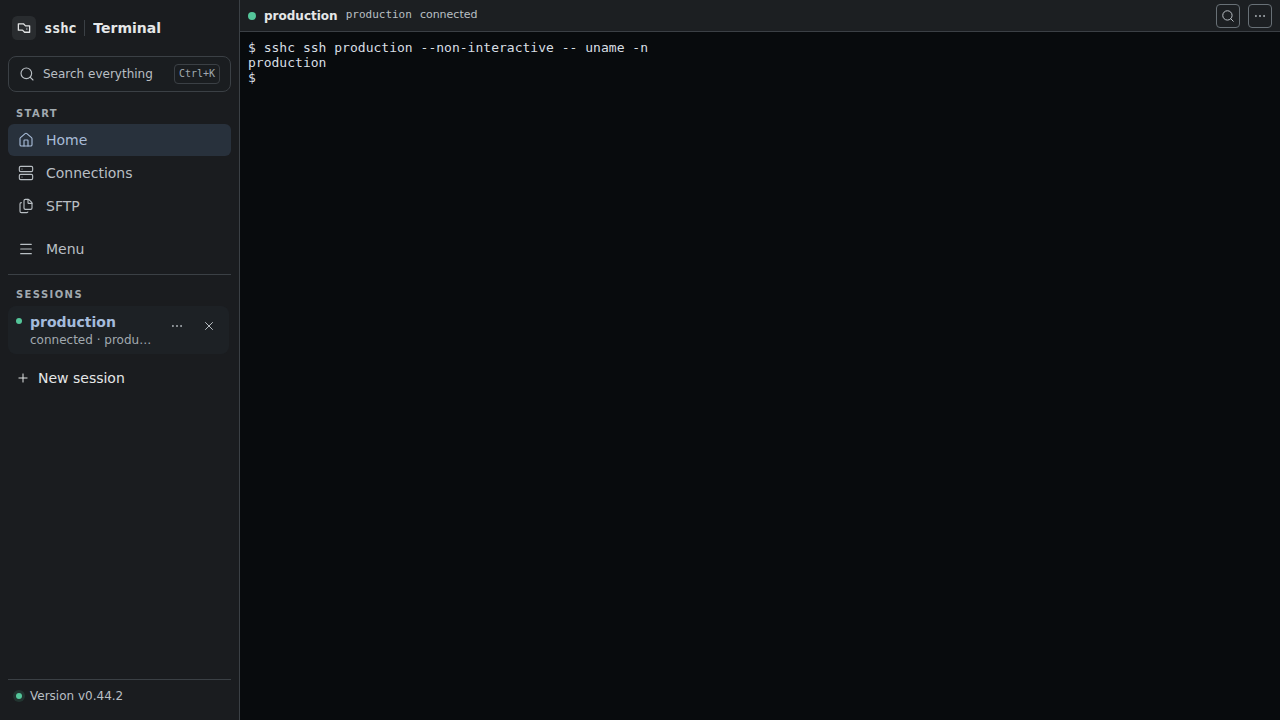
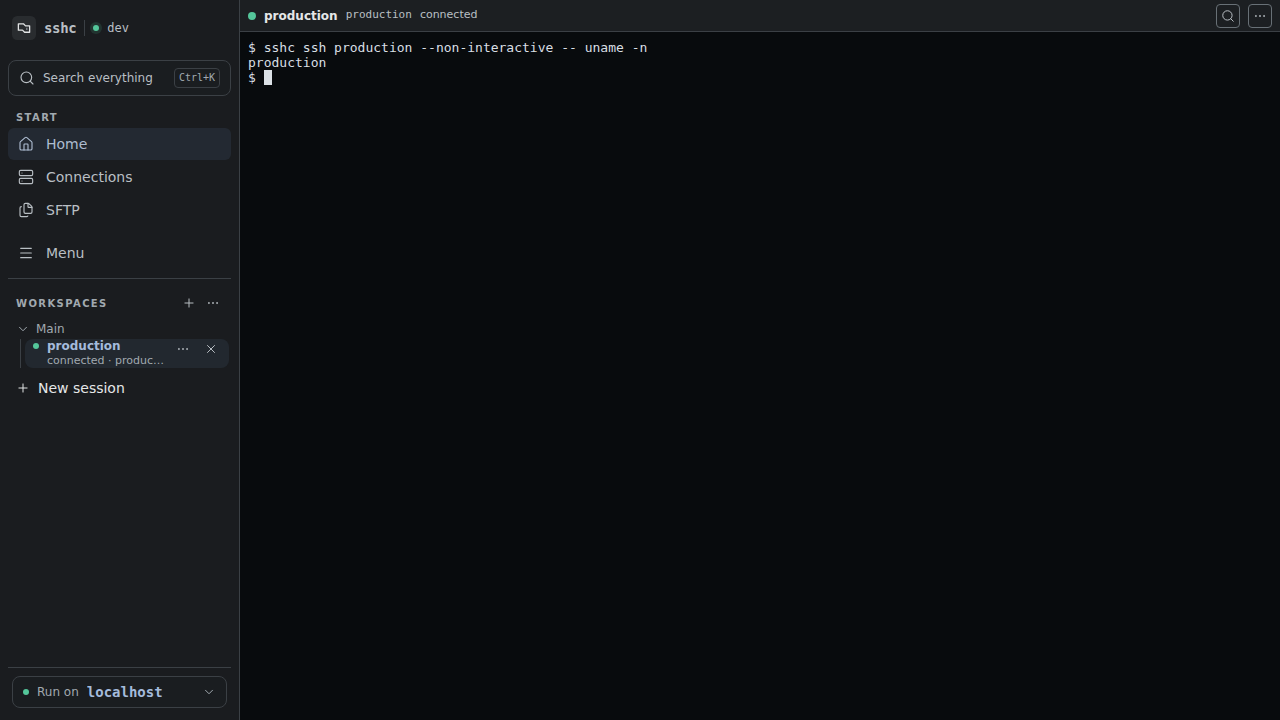
docs: 実装に合わせて説明とサイト画像を更新

diff --git a/web/e2e/sftp-transfer.spec.ts b/web/e2e/sftp-transfer.spec.ts
@@ -280,15 +280,22 @@ test("keeps a chunked SFTP upload visible while another section is open", async 
     await page.getByRole("button", { name: "project", exact: true }).click();
     await openSecondSFTPPane(page, "New tab", "Local");
     await page.setViewportSize({ width: 360, height: 800 });
-    await page.getByRole("navigation", { name: "SFTP pane switcher" }).getByRole("button", { name: "Left: bastion", exact: true }).click();
-    await page.waitForTimeout(400);
-    await expect(page.getByRole("tablist", { name: "Left pane tabs" })).toBeVisible();
-    await expect(page.getByRole("tablist", { name: "Right pane tabs" })).toHaveCount(0);
+    const mobileTabs = page.getByRole("tablist", { name: "File tabs" });
+    await expect(mobileTabs.getByRole("tab", { name: /^Local:/ })).toBeVisible();
+    await mobileTabs.getByRole("tab", { name: /^bastion:/ }).first().click();
+    await expect(page.getByRole("tablist")).toHaveCount(1);
     await expect(page.locator('[aria-label="First remote pane"]')).toBeVisible();
     await expect(page.locator('[aria-label="Second remote pane"]')).toBeHidden();
     await expect(page.getByRole("separator", { name: "Resize the panes" })).toHaveCount(0);
-    await expect(page.getByRole("button", { name: "Compare directories", exact: true })).toHaveCount(0);
+    await page.getByRole("button", { name: "Compare directories", exact: true }).click();
+    const compareTabs = page.getByRole("dialog", { name: "Choose tabs to compare" });
+    await expect(compareTabs.getByRole("combobox")).toHaveCount(2);
+    await compareTabs.getByRole("button", { name: "Compare", exact: true }).click();
+    const mobileComparison = page.getByRole("dialog", { name: "Compare directories" });
+    await expect(mobileComparison.getByText("Left only", { exact: true })).toBeVisible();
+    await mobileComparison.getByRole("button", { name: "Cancel" }).click();
     await expect(page.getByRole("list", { name: "File list" })).toBeVisible();
+    await page.getByRole("checkbox", { name: "Select project", exact: true }).check();
     await page.getByRole("button", { name: "Actions for project" }).click();
     await expect(page.getByRole("menuitem", { name: "Download" })).toBeInViewport();
     await page.keyboard.press("Escape");
@@ -306,6 +313,7 @@ test("keeps a chunked SFTP upload visible while another section is open", async 
     await expect(mobileTransferManager).toBeVisible();
     await expect(mobileTransferManager.getByRole("separator")).toHaveCount(0);
     await expect(mobileTransferManager.getByText("失敗", { exact: true })).toBeVisible();
+    await mobileTransferManager.getByRole("button", { name: "broken.binの詳細を表示" }).click();
     await expect(mobileTransferManager.getByText("SFTPの操作に失敗しました。", { exact: true })).toBeVisible();
     await mobileTransferManager.getByRole("button", { name: "転送キューの操作" }).click();
     await expect(page.getByRole("menuitem", { name: "すべてキャンセル" })).toBeInViewport();

diff --git a/web/e2e/workspaces.spec.ts b/web/e2e/workspaces.spec.ts
@@ -1,4 +1,5 @@
 import { expect, test, openApplication } from "./support/environment";
+import { drawnRows, terminalKeyboard } from "./support/terminal";
 
 test("reveals workspace counts together with actions on hover and keyboard focus", async ({ page, installation }) => {
   await openApplication(page, installation);
@@ -60,6 +61,23 @@ test("groups sessions into workspaces and keeps a hidden one out of the tree", a
   await expect(dialog).toBeHidden();
   await expect(page.getByRole("region", { name: /^Terminal for / })).toBeVisible();
   await expect(workspace).toContainText("1");
+
+  if (process.env.SSHC_VISUAL_DIR !== undefined) {
+    // Capture the current workspace tree and run-target control before hiding the session.
+    const terminal = page.getByRole("region", { name: /^Terminal for / });
+    await expect(terminal).toContainText(/[$#%>]/);
+    // Keep the capture independent of the machine's user name and hostname.
+    await terminalKeyboard(page).focus();
+    await page.keyboard.type("export PS1='sshc@localhost:~$ '; printf '\\033[2J\\033[H'");
+    await page.keyboard.press("Enter");
+    await expect(drawnRows(page)).toHaveText("sshc@localhost:~$");
+    await page.mouse.move(0, 0);
+    await page.screenshot({ path: `${process.env.SSHC_VISUAL_DIR}/terminal-desktop.png`, animations: "disabled" });
+    await navigation.getByRole("button", { name: /^Choose where terminals run/ }).click();
+    await expect(navigation.getByRole("list", { name: "Engines" })).toBeVisible();
+    await page.screenshot({ path: `${process.env.SSHC_VISUAL_DIR}/run-target-desktop.png`, animations: "disabled" });
+    await page.keyboard.press("Escape");
+  }
 
   const session = tree.getByRole("button", { name: /^Actions for / });
   await session.click();

diff --git a/web/e2e/support/environment.ts b/web/e2e/support/environment.ts
@@ -176,8 +176,8 @@ export const shellSays = {
 
 export const test = base.extend<{ installation: Installation }>({
   page: async ({ page }, use) => {
-    // Documentation captures show the published release, not this development build and the
-    // update notice it would get. A test that stubs the update status itself registers later and wins.
+    // Keep documentation captures independent of release checks. The capture script supplies
+    // an exact release tag or dev; a test-specific update stub registers later and wins.
     const visualVersion = process.env.SSHC_VISUAL_VERSION;
     if (visualVersion !== undefined) {
       await page.route("**/api/v1/update", (route) => route.fulfill({

diff --git a/pages/index.md b/pages/index.md
@@ -19,7 +19,7 @@ outline: false
       </div>
     </div>
     <div class="sshc-preview">
-      <img src="/images/terminal-desktop.png" alt="sshcでSSH接続を開いたTerminal画面" width="1280" height="720">
+      <img src="/images/terminal-desktop.png" alt="ワークスペース内でローカルシェルを開いたTerminal画面" width="1280" height="720">
     </div>
   </section>
 
@@ -29,7 +29,7 @@ outline: false
       <p>SSHとローカルシェルを同じ画面で開けます。SFTPやポート転送にも同じ接続設定を使い、OpenSSH形式のまま管理できます。選んだ接続だけを<a href="./features/vpn">専用のVPN</a>経由で接続することもできます。</p>
     </div>
     <div class="sshc-feature-grid">
-      <article class="sshc-feature"><img class="sshc-feature-image" src="/images/terminal-desktop.png" alt="SSH接続を開いたTerminal" width="1280" height="720"><div class="sshc-feature-body"><span class="index">01</span><h3>SSHとローカルシェル</h3><p>セッションの一覧から切り替えて使えます。再接続、検索、ポート転送にも対応しています。</p></div></article>
+      <article class="sshc-feature"><img class="sshc-feature-image" src="/images/terminal-desktop.png" alt="ワークスペース内でローカルシェルを開いたTerminal" width="1280" height="720"><div class="sshc-feature-body"><span class="index">01</span><h3>SSHとローカルシェル</h3><p>セッションの一覧から切り替えて使えます。再接続、検索、ポート転送にも対応しています。</p></div></article>
       <article class="sshc-feature"><img class="sshc-feature-image" src="/images/connections-desktop.png" alt="OpenSSH接続を整理するConnections画面" width="1280" height="720"><div class="sshc-feature-body"><span class="index">02</span><h3>OpenSSH設定をそのまま使う</h3><p><code>~/.ssh/config</code>の<code>Include</code>や<code>Match</code>をそのまま扱っています。通常の<code>ssh</code>やVS Codeでも、同じエイリアスを使えます。</p></div></article>
       <article class="sshc-feature"><img class="sshc-feature-image" src="/images/credentials-desktop.png" alt="保存済みパスワードを複数ホストへ割り当てたVault画面" width="1280" height="720"><div class="sshc-feature-body"><span class="index">03</span><h3>認証情報は一度保存</h3><p>パスワードや鍵のパスフレーズはVaultに一度保存すれば、Terminal、SFTP、CLIでそのまま使えます。機能ごとに設定し直す必要はありません。</p></div></article>
       <article class="sshc-feature"><img class="sshc-feature-image" src="/images/otp-desktop-ja.png" alt="現在のコードと割り当て先を表示したOTP画面" width="1280" height="720"><div class="sshc-feature-body"><span class="index">04</span><h3>ワンタイムパスワード</h3><p>TOTPのセットアップキーをVaultに保存すると、現在のコードを確認できます。接続先に割り当てておけば、サーバーが求めたときにコードを自動で入力します。</p></div></article>

diff --git a/pages/en/index.md b/pages/en/index.md
@@ -19,7 +19,7 @@ outline: false
       </div>
     </div>
     <div class="sshc-preview">
-      <img src="/images/terminal-desktop.png" alt="An SSH connection open in the sshc terminal" width="1280" height="720">
+      <img src="/images/terminal-desktop.png" alt="A local shell open in a named workspace" width="1280" height="720">
     </div>
   </section>
 
@@ -29,7 +29,7 @@ outline: false
       <p>Open SSH sessions and local shells side by side in one list, then use SFTP and port forwarding with the same connections. Connection settings remain in OpenSSH format. Chosen connections can also go through <a href="./features/vpn">a VPN of their own</a>.</p>
     </div>
     <div class="sshc-feature-grid">
-      <article class="sshc-feature"><img class="sshc-feature-image" src="/images/terminal-desktop.png" alt="An SSH connection open in the terminal" width="1280" height="720"><div class="sshc-feature-body"><span class="index">01</span><h3>SSH and local shells</h3><p>Switch between sessions from the list. Reconnect, search, and forward ports.</p></div></article>
+      <article class="sshc-feature"><img class="sshc-feature-image" src="/images/terminal-desktop.png" alt="A local shell open in a named workspace" width="1280" height="720"><div class="sshc-feature-body"><span class="index">01</span><h3>SSH and local shells</h3><p>Switch between sessions from the list. Reconnect, search, and forward ports.</p></div></article>
       <article class="sshc-feature"><img class="sshc-feature-image" src="/images/connections-desktop.png" alt="Connections screen for organizing OpenSSH hosts" width="1280" height="720"><div class="sshc-feature-body"><span class="index">02</span><h3>Use OpenSSH configuration directly</h3><p>Keep <code>~/.ssh/config</code>, Include, and Match intact, so regular ssh and VS Code use the same aliases.</p></div></article>
       <article class="sshc-feature"><img class="sshc-feature-image" src="/images/credentials-desktop.png" alt="Vault screen assigning a saved password to multiple hosts" width="1280" height="720"><div class="sshc-feature-body"><span class="index">03</span><h3>Reuse saved credentials</h3><p>Register passwords and key passphrases in the vault once, then use them from the terminal, SFTP, and CLI without configuring each feature separately.</p></div></article>
       <article class="sshc-feature"><img class="sshc-feature-image" src="/images/otp-desktop-en.png" alt="OTP screen showing current codes and assigned hosts" width="1280" height="720"><div class="sshc-feature-body"><span class="index">04</span><h3>One-time passwords</h3><p>Store TOTP setup keys in the vault to see the current codes. Assign one to a connection, and sshc enters the code when the server asks for it.</p></div></article>

diff --git a/pages/guide/getting-started.md b/pages/guide/getting-started.md
@@ -5,9 +5,9 @@ description: SSHとローカルシェルを扱うターミナルアプリ。Open
 
 # sshcとは
 
-sshcは、SSHとローカルシェルを扱うターミナルアプリです。デスクトップ版は、ブラウザで操作するWeb UIと、SSH接続を処理するバックグラウンドプロセス（sshcエンジン）で構成されています。今あるOpenSSH設定を使って複数のペインで接続を開き、SFTPやポート転送にも同じ接続設定を使えます。`~/.ssh/config`、`Include`、秘密鍵、`known_hosts`は独自形式へ変換しません。
+sshcは、SSHとローカルシェルを扱うターミナルアプリです。デスクトップ版は、ブラウザで操作するWeb UIと、SSH接続を処理するバックグラウンドプロセス（sshcエンジン）で構成されています。今あるOpenSSH設定を使って接続を開き、セッションをワークスペースごとにまとめられます。SFTPやポート転送にも同じ接続設定を使えます。`~/.ssh/config`、`Include`、秘密鍵、`known_hosts`は独自形式へ変換しません。
 
-![SSH接続を開いたTerminal画面](/images/terminal-desktop.png)
+![ワークスペース内でローカルシェルを開いたTerminal画面](/images/terminal-desktop.png)
 
 デスクトップでは、左側のナビゲーションからHome、Connections、SFTP、Menuと、開いているTerminalへ移動します。モバイルでは左上のメニューボタンから同じナビゲーションを開き、外側をタップすると閉じられます。
 

diff --git a/pages/en/guide/getting-started.md b/pages/en/guide/getting-started.md
@@ -5,9 +5,9 @@ description: A terminal app that uses existing OpenSSH configuration, with SSH, 
 
 # What is sshc?
 
-sshc is a terminal app that uses your existing OpenSSH configuration. Open SSH sessions and local shells in multiple panes, then use SFTP and port forwarding with the same connections. The terminal, SFTP, CLI, and encrypted sync share the same `~/.ssh/config`, `Include` files, private keys, and `known_hosts` without converting them to a proprietary format.
+sshc is a terminal app that uses your existing OpenSSH configuration. Open SSH sessions and local shells, group them into workspaces, and use SFTP and port forwarding with the same connection settings. The terminal, SFTP, CLI, and encrypted sync share the same `~/.ssh/config`, `Include` files, private keys, and `known_hosts` without converting them to a proprietary format.
 
-![An SSH connection open in the terminal](/images/terminal-desktop.png)
+![A local shell open in a named workspace](/images/terminal-desktop.png)
 
 On desktop, the left navigation opens Home, Connections, SFTP, Menu, and your live terminals. On mobile, use the menu button to open the same navigation and tap outside it to close.
 

diff --git a/README.md b/README.md
@@ -78,7 +78,7 @@ sshc help                    # すべてのコマンド
 - OpenSSHのコメント、順序、空白、`Include`を保った設定管理
 - 接続状態、検索、出力を引き継ぐ再接続、貼り付け前の確認、文字コード、クイックコマンドを備えたTerminal
 - フォルダ転送、中断からの再開、バックグラウンドの転送キュー、エディタ、フォルダからのSSH・ローカルシェル起動を備えたSFTP
-- SSHとローカルシェルを最大4ペインに並べるWorkspace
+- SSHとローカルシェルのセッションをまとめ、表示・非表示を切り替えられるワークスペース
 - パスワード、鍵のパスフレーズ、TOTPのセットアップキーをVaultに保存し、Terminal、SFTP、CLIで再利用する認証情報の管理
 - 選んだSSH接続だけを専用のVPN経由で接続する、接続ごとのVPN（WireGuard、L2TP/IPsec、OpenConnect、OpenVPN、IKEv2/IPsec。Dockerを使用）
 - セッション、ホスト、ファイル、スニペット、設定を横断するコマンド検索（Search）

diff --git a/pages/features/index.md b/pages/features/index.md
@@ -78,7 +78,7 @@ sshcは、SSHとローカルシェルを扱うターミナルアプリです。S
 
 ## 更新と設定
 
-- macOSとLinuxのHomebrew版と`install.sh`版は、導入方法を確認でき、インストール先への書き込み権限がある場合に、新しい安定版へWeb画面から更新できます（[更新手順](/guide/install#web画面から更新する)）
+- macOS・LinuxのHomebrew版と`install.sh`版、Windowsの`install.ps1`版は、導入方法を確認でき、インストール先への書き込み権限がある場合に、新しい安定版へWeb画面から更新できます（[更新手順](/guide/install#web画面から更新する)）
 - アプリのテーマ（システム／ライト／ダーク）、表示言語（日本語／English）、キーボードショートカット、Vaultの自動ロックを[設定](/reference/settings)で変更
 
 ## 公開デモ
